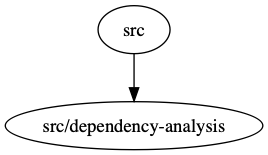
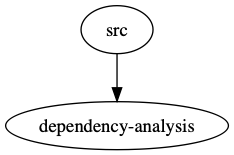
Fix graph simplifier
Counting values will cause nodes to be unnecessarily double counted.

diff --git a/src/dependency-analysis/simplifier.ts b/src/dependency-analysis/simplifier.ts
@@ -23,10 +23,7 @@ export default (graph: Graph): Graph => {
     const basePath = getBasePathWithoutExtension(fullPath);
     basePathCount.set(basePath, (basePathCount.get(basePath) || 0) + 1);
   };
-  Object.entries(graph).forEach(([keyFullPath, fullPathImports]) => {
-    countBasePath(keyFullPath);
-    fullPathImports.forEach(countBasePath);
-  });
+  Object.keys(graph).forEach(countBasePath);
   const simplifyPath = (fullPath: string): string => {
     const basePath = getBasePathWithoutExtension(fullPath);
     return (basePathCount.get(basePath) || 0) > 1 ? fullPath : basePath;
